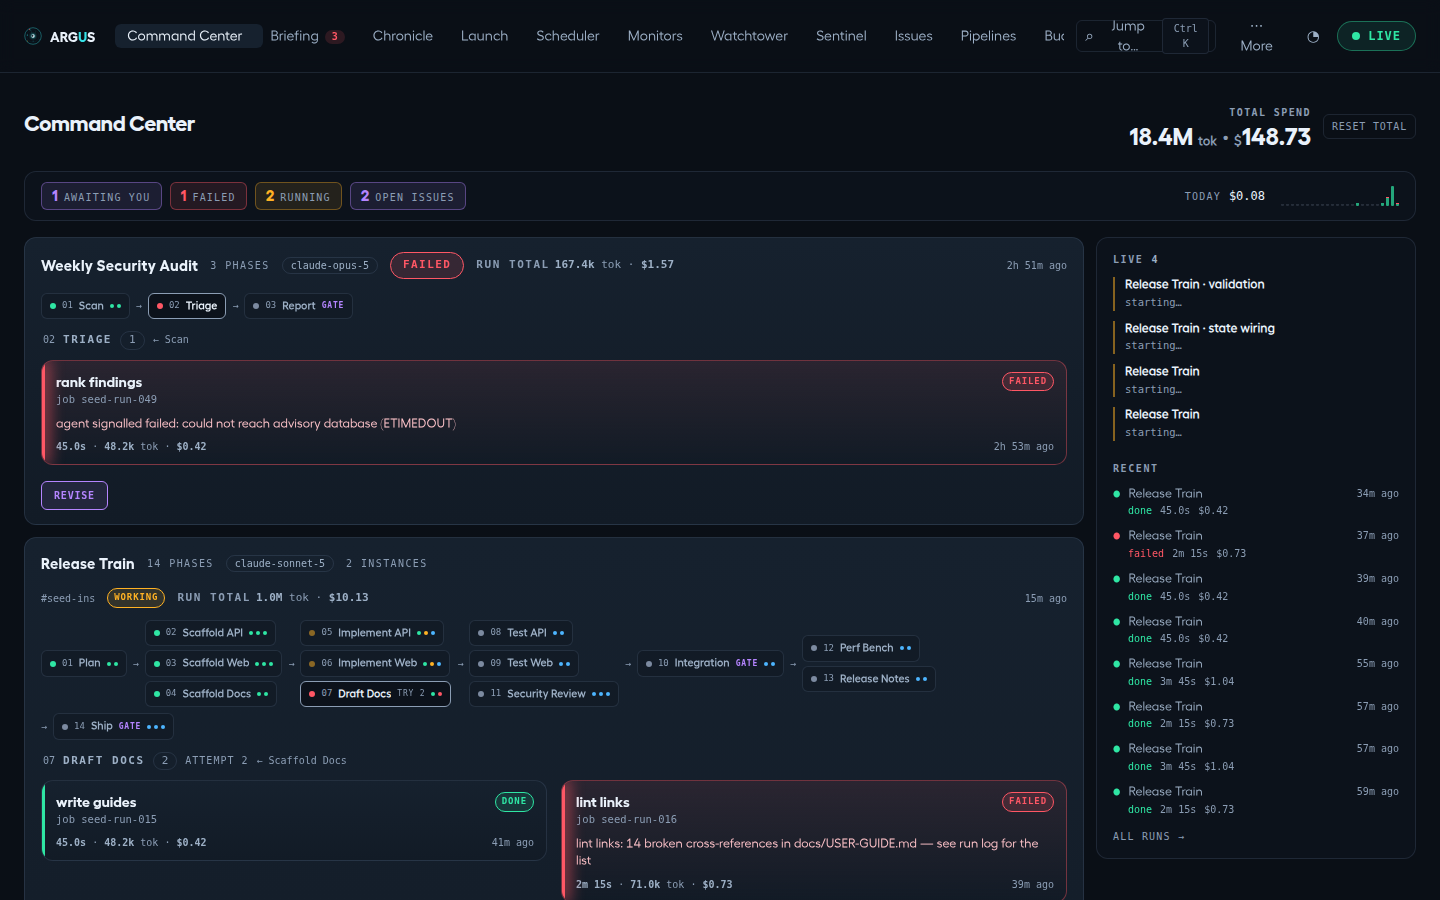
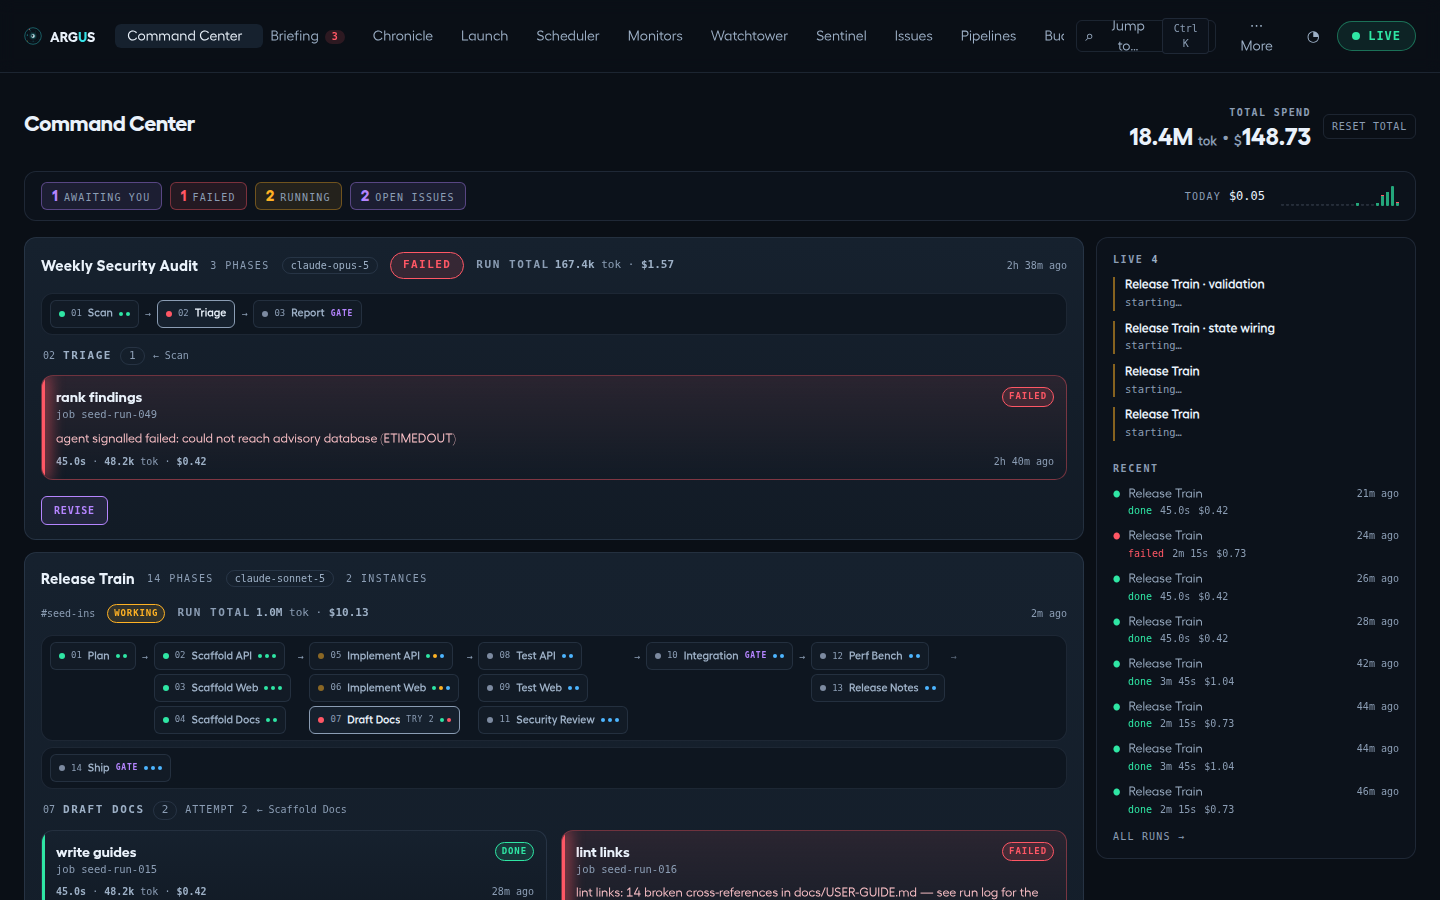
Straighten the phase rail and pack it into row tiles (#35)

diff --git a/web/src/views/PhaseRail.tsx b/web/src/views/PhaseRail.tsx
@@ -1,11 +1,13 @@
+import { useCallback, useEffect, useLayoutEffect, useRef, useState } from "react";
 import type { DsStatus, PhasePill } from "../ds";
 import { DURATION, STATUS, useSyncedDelay } from "../ds";
 import { graphColumns, graphEdges } from "./phaseGraphLayout";
+import { packStages, packedRows } from "./railLayout";
 
 /**
  * The pipeline's shape as the board's overhead: one compact chip per phase,
- * grouped into stages (phases that can run at the same time), in a strip that
- * wraps instead of scrolling.
+ * grouped into stages (phases that can run at the same time), packed into
+ * rows that are each a tile of their own.
  *
  * This is the compression that keeps a 14-phase pipeline to one card-height:
  * the rail carries every phase's status, gate, attempt and step progress at a
@@ -17,6 +19,12 @@ import { graphColumns, graphEdges } from "./phaseGraphLayout";
  * a branching pipeline still reads as branching. Instances that carry no
  * dependency edges at all (authored before Weave) fall back to one stage per
  * phase in order — absent edges mean "unknown", not "all parallel".
+ *
+ * Rows are packed by measurement rather than CSS wrapping: a flex wrap breaks
+ * the line wherever it runs out of width and leaves the break invisible, which
+ * on a long real-world chain read as chips floating loose. Packing the stages
+ * ourselves lets every row be a real element — a bordered tile whose edge *is*
+ * the row divider, with a trailing arrow when the chain continues below.
  */
 
 const PHASE_DOT: Record<DsStatus, string> = {
@@ -28,6 +36,13 @@ const PHASE_DOT: Record<DsStatus, string> = {
   await: "bg-await",
   stopped: "bg-idle",
 };
+
+/** Width the chain costs between two stages on one row: the h-7 arrow box
+ *  (~16px glyph) plus the row's gap on each side. Slightly generous — a row
+ *  that measures a few pixels tight wraps inside its tile instead of clipping. */
+const JOIN_PX = 30;
+/** Row tile horizontal padding + borders, subtracted from the container width. */
+const ROW_CHROME_PX = 22;
 
 function chipTitle(pill: PhasePill, index: number, needNames: string[]): string {
   const bits = [`${index + 1}. ${pill.name} — ${STATUS[pill.status].label.toLowerCase()}`];
@@ -58,18 +73,21 @@ function PhaseChip({
   // Tinted borders only for the states that demand attention while unselected.
   const border =
     pill.status === "failed"
-      ? "border-fail/40 bg-surface hover:bg-ground-2"
+      ? "border-fail/40 bg-surface hover:bg-surface-2"
       : pill.status === "await"
-        ? "border-await/40 bg-surface hover:bg-ground-2"
-        : "border-line bg-surface hover:border-ink-faint/60 hover:bg-ground-2";
+        ? "border-await/40 bg-surface hover:bg-surface-2"
+        : "border-line bg-surface hover:border-ink-faint/60 hover:bg-surface-2";
   return (
     <button
       type="button"
       onClick={onSelect}
       aria-pressed={selected}
       title={chipTitle(pill, index, needNames)}
-      className={`flex min-w-0 items-center gap-1.5 rounded-md border px-2 py-1 text-left transition-[border-color,background-color] duration-(--duration-quick) ${
-        selected ? "border-ink-faint bg-ground-2" : border
+      // One fixed height for every chip (names truncate to one line), so the
+      // top-aligned rows read as straight lanes — content-sized heights made
+      // wrapped rails visibly crooked on real data.
+      className={`flex h-7 min-w-0 items-center gap-1.5 rounded-md border px-2 text-left transition-[border-color,background-color] duration-(--duration-quick) ${
+        selected ? "border-ink-faint bg-surface-2" : border
       }`}
     >
       <span
@@ -117,6 +135,20 @@ function PhaseChip({
   );
 }
 
+/** The h-7 arrow box: fixed to chip height so it centers on the chip row. */
+function Arrow({ trailing = false }: { trailing?: boolean }) {
+  return (
+    <span
+      aria-hidden="true"
+      className={`flex h-7 shrink-0 items-center font-mono text-[10px] ${
+        trailing ? "text-ink-faint/60" : "text-ink-faint"
+      }`}
+    >
+      →
+    </span>
+  );
+}
+
 export function PhaseRail({
   phases,
   selectedId,
@@ -134,33 +166,96 @@ export function PhaseRail({
     graphEdges(phases).length > 0
       ? graphColumns(phases)
       : phases.map((p, i) => ({ depth: i, phases: [p] }));
+
+  const containerRef = useRef<HTMLOListElement>(null);
+  const stageEls = useRef(new Map<number, HTMLOListElement>());
+  // First stage of each visual row. Starts as one row holding everything; the
+  // layout effect below corrects it from real measurements before first paint.
+  const [breaks, setBreaks] = useState<number[]>([0]);
+
+  const pack = useCallback(() => {
+    const container = containerRef.current;
+    if (!container || container.clientWidth === 0) return;
+    const widths: number[] = [];
+    for (let i = 0; i < columns.length; i++) widths.push(stageEls.current.get(i)?.offsetWidth ?? 0);
+    const next = packStages(widths, container.clientWidth - ROW_CHROME_PX, JOIN_PX);
+    setBreaks((prev) =>
+      prev.length === next.length && prev.every((b, i) => b === next[i]) ? prev : next,
+    );
+    // The stage list itself is the effect's real dependency; its length is the
+    // part measurement can see.
+  }, [columns.length]);
+
+  // Before paint, so the corrected rows never flash their unmeasured layout.
+  useLayoutEffect(pack, [pack, phases]);
+  useEffect(() => {
+    const container = containerRef.current;
+    if (!container || typeof ResizeObserver === "undefined") return;
+    const ro = new ResizeObserver(pack);
+    ro.observe(container);
+    // Chip widths change when the webfonts land; ResizeObserver can't see that.
+    document.fonts?.ready.then(pack).catch(() => {});
+    return () => ro.disconnect();
+  }, [pack]);
+
+  const rows = packedRows(breaks, columns.length);
   return (
     <ol
+      ref={containerRef}
       aria-label="Phases"
       data-testid="phase-rail"
-      className="flex flex-wrap items-center gap-x-1.5 gap-y-1.5"
+      className="flex min-w-0 flex-col gap-1.5"
     >
-      {columns.map((col, i) => (
-        <li key={col.depth} className="flex min-w-0 items-center gap-1.5">
-          {i > 0 && (
-            <span aria-hidden="true" className="font-mono text-[10px] text-ink-faint">
-              →
-            </span>
-          )}
-          {/* A stage with several phases stacks them, so a fan-out reads
-              vertically between the arrows — the graph, at chip size. */}
-          <ol className="flex min-w-0 flex-col gap-1">
-            {col.phases.map((p) => (
-              <li key={p.id} className="min-w-0">
-                <PhaseChip
-                  pill={p}
-                  index={indexOf.get(p.id) ?? 0}
-                  needNames={p.needs.map((n) => nameOf.get(n) ?? n)}
-                  selected={p.id === selectedId}
-                  onSelect={() => onSelect(p.id)}
-                />
-              </li>
-            ))}
+      {rows.map((row, r) => (
+        <li key={row.start} className="min-w-0">
+          {/* The row tile. Its border is the row divider the bare wrap never
+              had; flex-wrap stays on as a safety net so a measurement that is
+              a few pixels off wraps inside the tile instead of clipping. */}
+          <ol
+            data-testid="rail-row"
+            className="flex min-w-0 flex-wrap items-start gap-x-1.5 gap-y-1.5 rounded-tile border border-line/80 bg-ground-2/70 px-2 py-1.5"
+          >
+            {columns.slice(row.start, row.end).map((col, j) => {
+              const i = row.start + j;
+              const lastInRow = i === row.end - 1;
+              return (
+                <li
+                  key={col.depth}
+                  data-testid="rail-stage"
+                  className="flex min-w-0 shrink-0 items-start gap-1.5"
+                >
+                  {j > 0 && <Arrow />}
+                  {/* A stage with several phases stacks them, so a fan-out
+                      hangs below the chain — the graph, at chip size. The
+                      measurement ref sits on the stack, not the <li>: the
+                      <li> also holds the arrows, whose width the packer
+                      already budgets as `join` — measuring them twice would
+                      shift widths with row membership and oscillate the pack. */}
+                  <ol
+                    ref={(el) => {
+                      if (el) stageEls.current.set(i, el);
+                      else stageEls.current.delete(i);
+                    }}
+                    className="flex min-w-0 flex-col gap-1"
+                  >
+                    {col.phases.map((p) => (
+                      <li key={p.id} className="min-w-0">
+                        <PhaseChip
+                          pill={p}
+                          index={indexOf.get(p.id) ?? 0}
+                          needNames={p.needs.map((n) => nameOf.get(n) ?? n)}
+                          selected={p.id === selectedId}
+                          onSelect={() => onSelect(p.id)}
+                        />
+                      </li>
+                    ))}
+                  </ol>
+                  {/* The chain continues in the next row's tile: say so at the
+                      break instead of leaving the reader to infer it. */}
+                  {lastInRow && r < rows.length - 1 && <Arrow trailing />}
+                </li>
+              );
+            })}
           </ol>
         </li>
       ))}

diff --git a/web/src/views/railLayout.ts b/web/src/views/railLayout.ts
@@ -1,0 +1,45 @@
+/**
+ * Packing the phase rail's stages into explicit rows.
+ *
+ * CSS wrapping breaks a flex line wherever it runs out of width, which leaves
+ * the break invisible: a continued chain reads as chips floating loose under
+ * the first line. The rail instead measures its stages and packs them into
+ * rows itself, so each row can be a real element — a tile with a border, a
+ * background, and a continuation arrow — rather than an accident of layout.
+ *
+ * Pure and separate from the component because packing is where the
+ * off-by-ones live: a stage exactly at the limit, a stage wider than the
+ * limit, and a zero-width measurement (jsdom, fonts not ready) all need a
+ * defined answer.
+ */
+
+/**
+ * The index of the first stage of each row.
+ *
+ * `limit` is the row's usable content width; `join` is the width the chain
+ * costs between two stages on one row (the arrow and its gaps). A stage wider
+ * than the limit still gets a row of its own — the row overflows and its
+ * chips truncate, which is the best available reading. A non-positive limit
+ * (unmeasured container) packs everything into one row rather than one row
+ * per stage, so the pre-measurement render is the single-line rail.
+ */
+export function packStages(widths: number[], limit: number, join: number): number[] {
+  const breaks: number[] = widths.length > 0 ? [0] : [];
+  if (limit <= 0) return breaks;
+  let used = 0;
+  for (let i = 0; i < widths.length; i++) {
+    const need = i === breaks[breaks.length - 1] ? widths[i] : used + join + widths[i];
+    if (need > limit && used > 0) {
+      breaks.push(i);
+      used = widths[i];
+    } else {
+      used = need;
+    }
+  }
+  return breaks;
+}
+
+/** The rows themselves, as [start, end) index pairs over the stage list. */
+export function packedRows(breaks: number[], stageCount: number): { start: number; end: number }[] {
+  return breaks.map((start, i) => ({ start, end: breaks[i + 1] ?? stageCount }));
+}

diff --git a/web/src/views/PhaseRail.test.tsx b/web/src/views/PhaseRail.test.tsx
@@ -81,9 +81,7 @@ describe("PhaseRail", () => {
         onSelect={() => {}}
       />,
     );
-    const rail = screen.getByTestId("phase-rail");
-    // Top-level list items are stages: 2 stages, not 3.
-    const stages = Array.from(rail.children);
+    const stages = screen.getAllByTestId("rail-stage");
     expect(stages).toHaveLength(2);
     expect(stages[1].textContent).toContain("build-a");
     expect(stages[1].textContent).toContain("build-b");
@@ -99,8 +97,34 @@ describe("PhaseRail", () => {
         onSelect={() => {}}
       />,
     );
-    const stages = Array.from(screen.getByTestId("phase-rail").children);
-    expect(stages).toHaveLength(3);
+    expect(screen.getAllByTestId("rail-stage")).toHaveLength(3);
+  });
+
+  it("renders rows as bordered tiles with straight, top-aligned lanes", () => {
+    // Centering set every chip's height off the tallest stack in its wrap
+    // row, which zigzagged the chain on real pipelines — and a bare CSS wrap
+    // left the row break invisible. Rows are explicit bordered tiles now.
+    render(
+      <PhaseRail
+        phases={[
+          pill("plan", "done"),
+          pill("build-a", "working", { needs: ["plan"] }),
+          pill("build-b", "working", { needs: ["plan"] }),
+        ]}
+        selectedId={null}
+        onSelect={() => {}}
+      />,
+    );
+    // jsdom measures nothing, so everything packs into the single first row.
+    const rows = screen.getAllByTestId("rail-row");
+    expect(rows).toHaveLength(1);
+    expect(rows[0].className).toContain("border");
+    expect(rows[0].className).toContain("items-start");
+    expect(rows[0].className).not.toContain("items-center");
+    // Chips share one fixed height, so the chain reads as a single lane.
+    for (const chip of screen.getAllByRole("button")) {
+      expect(chip.className).toContain("h-7");
+    }
   });
 
   it("marks gates, attempts and step progress on the chip", () => {

diff --git a/web/src/views/railLayout.test.ts b/web/src/views/railLayout.test.ts
@@ -1,0 +1,40 @@
+import { describe, it, expect } from "vitest";
+import { packStages, packedRows } from "./railLayout";
+
+describe("packStages", () => {
+  it("keeps everything on one row while it fits", () => {
+    expect(packStages([100, 100, 100], 400, 20)).toEqual([0]);
+  });
+
+  it("breaks a row exactly when the join no longer fits", () => {
+    // 100 + 20 + 100 = 220 fits; + 20 + 100 = 340 does not.
+    expect(packStages([100, 100, 100], 250, 20)).toEqual([0, 2]);
+  });
+
+  it("gives a stage wider than the limit a row of its own", () => {
+    expect(packStages([100, 900, 100], 250, 20)).toEqual([0, 1, 2]);
+  });
+
+  it("packs everything into one row when the limit is unmeasured", () => {
+    // Zero/negative limit means the container has not been measured (jsdom,
+    // first render): the answer is the single-line rail, not one row each.
+    expect(packStages([100, 100], 0, 20)).toEqual([0]);
+    expect(packStages([100, 100], -5, 20)).toEqual([0]);
+  });
+
+  it("returns no rows for no stages", () => {
+    expect(packStages([], 400, 20)).toEqual([]);
+  });
+});
+
+describe("packedRows", () => {
+  it("turns break indices into [start, end) pairs", () => {
+    expect(packedRows([0, 2, 5], 7)).toEqual([
+      { start: 0, end: 2 },
+      { start: 2, end: 5 },
+      { start: 5, end: 7 },
+    ]);
+    expect(packedRows([0], 3)).toEqual([{ start: 0, end: 3 }]);
+    expect(packedRows([], 0)).toEqual([]);
+  });
+});
